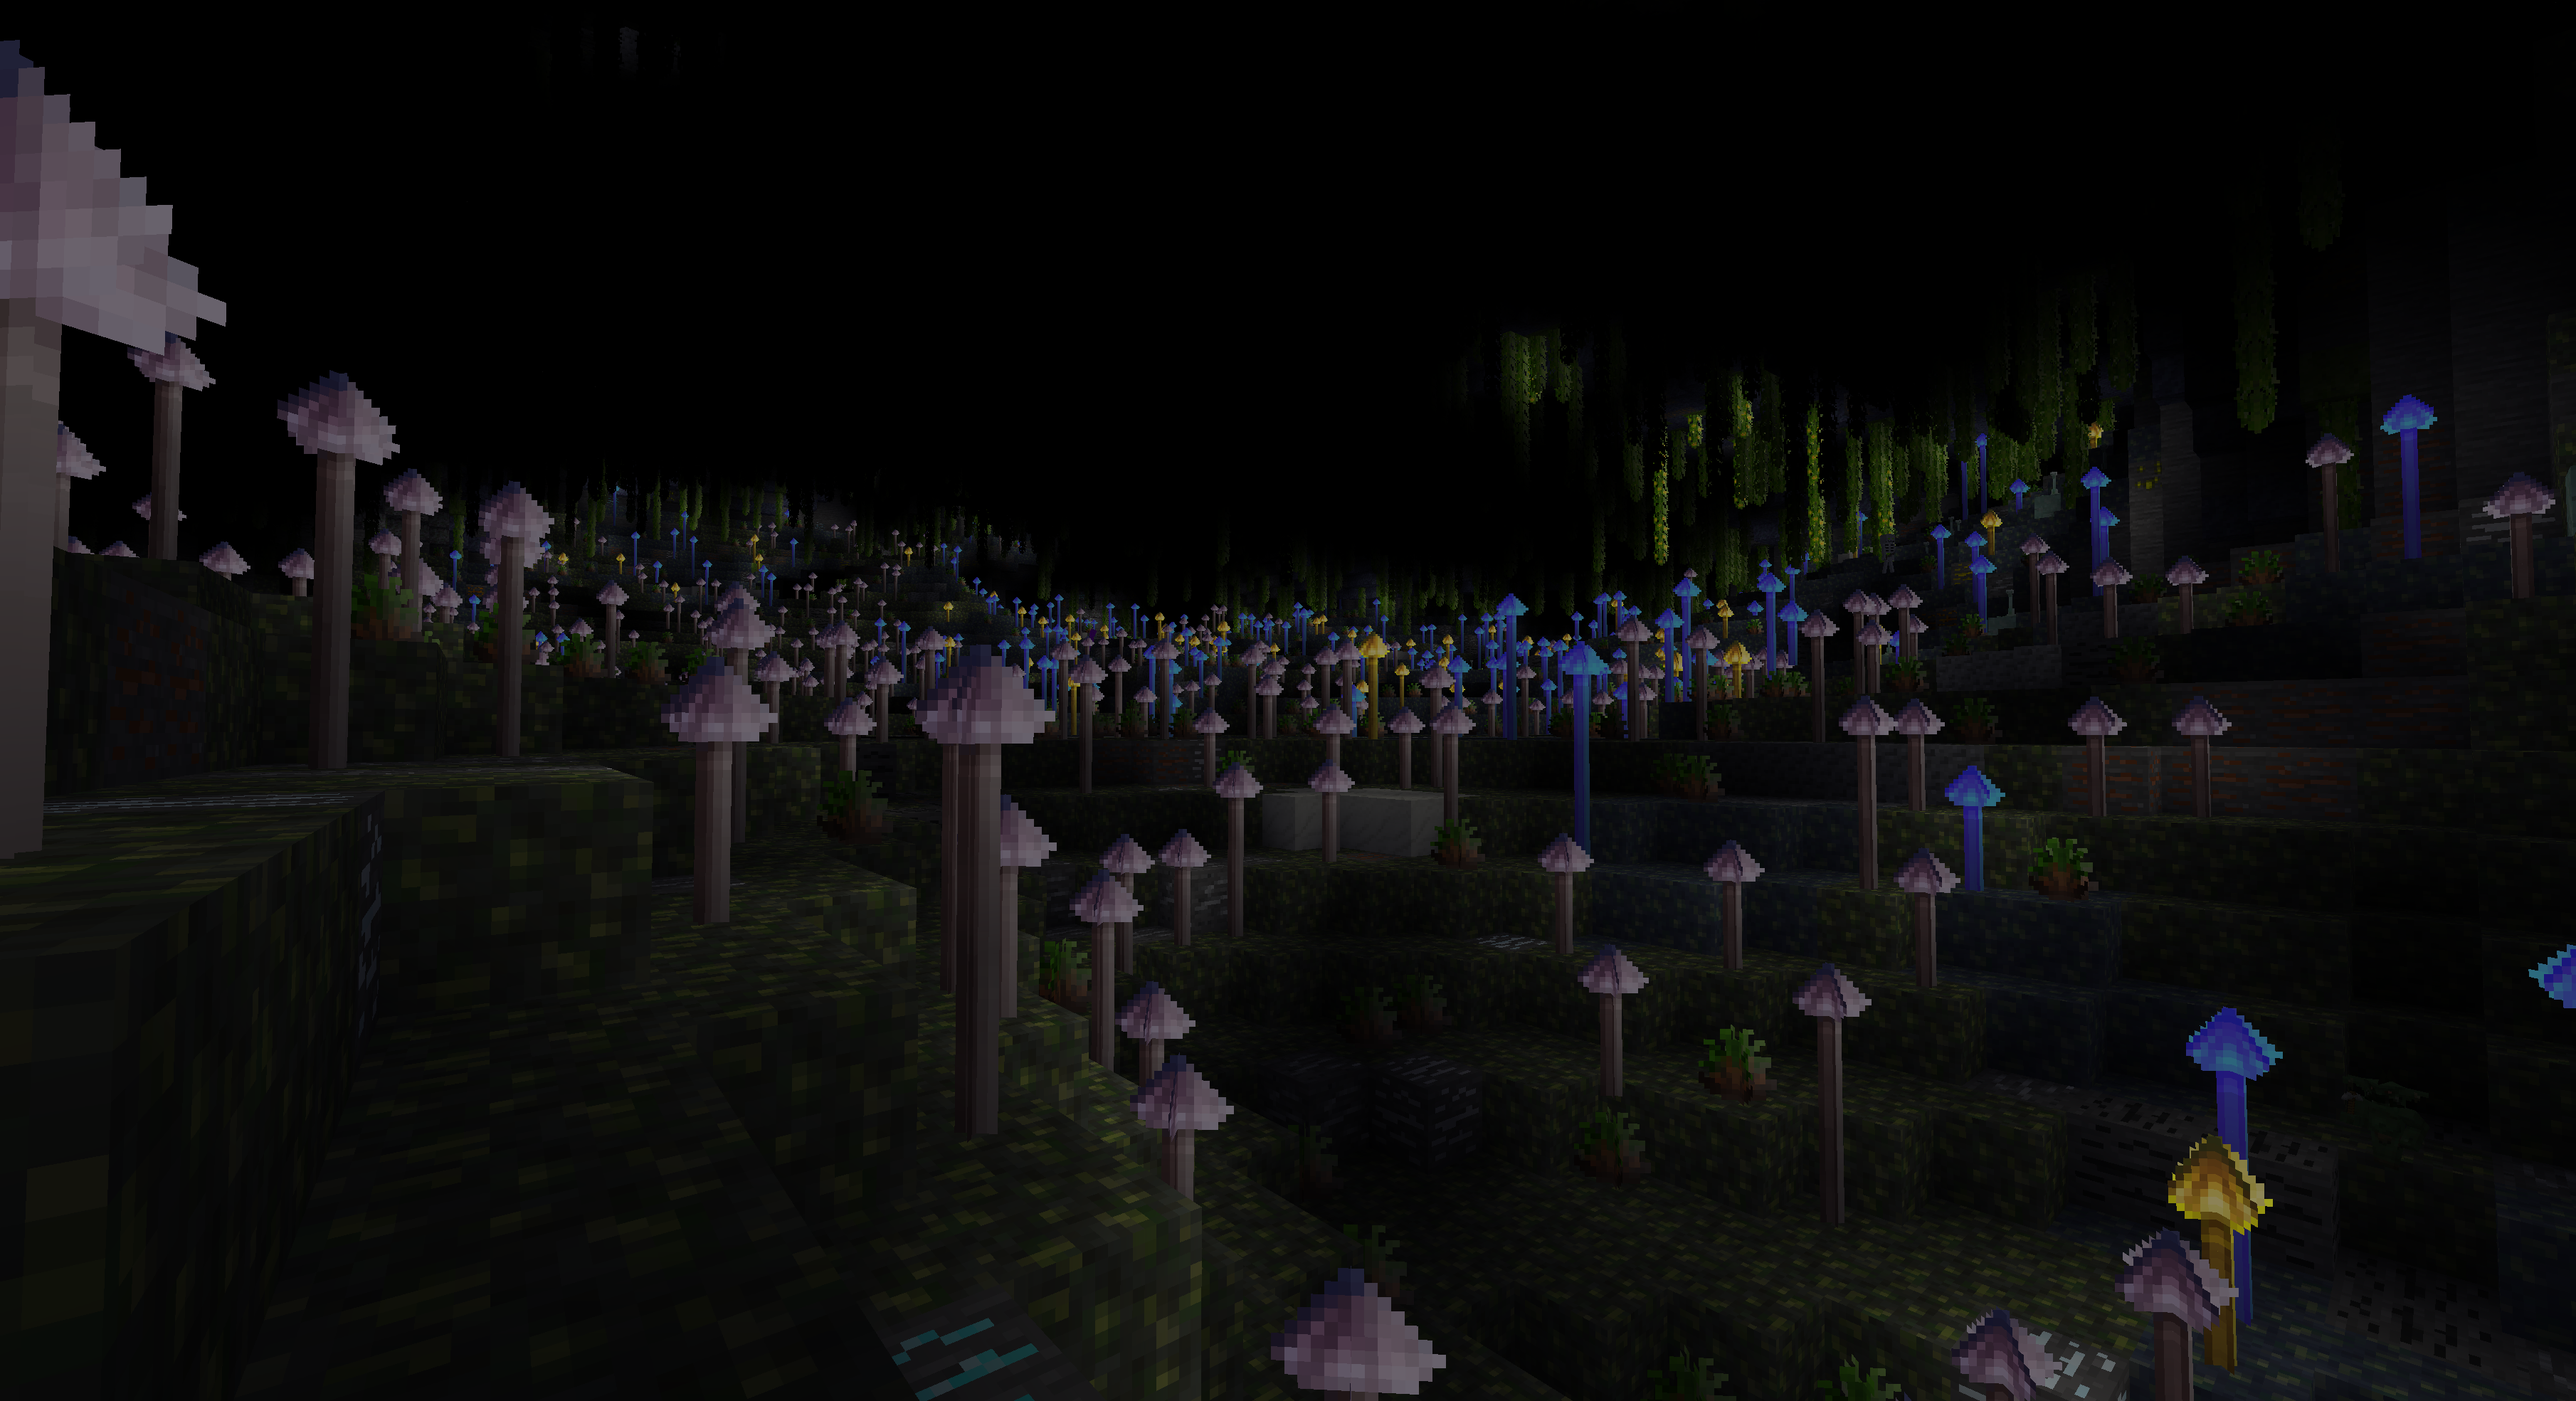
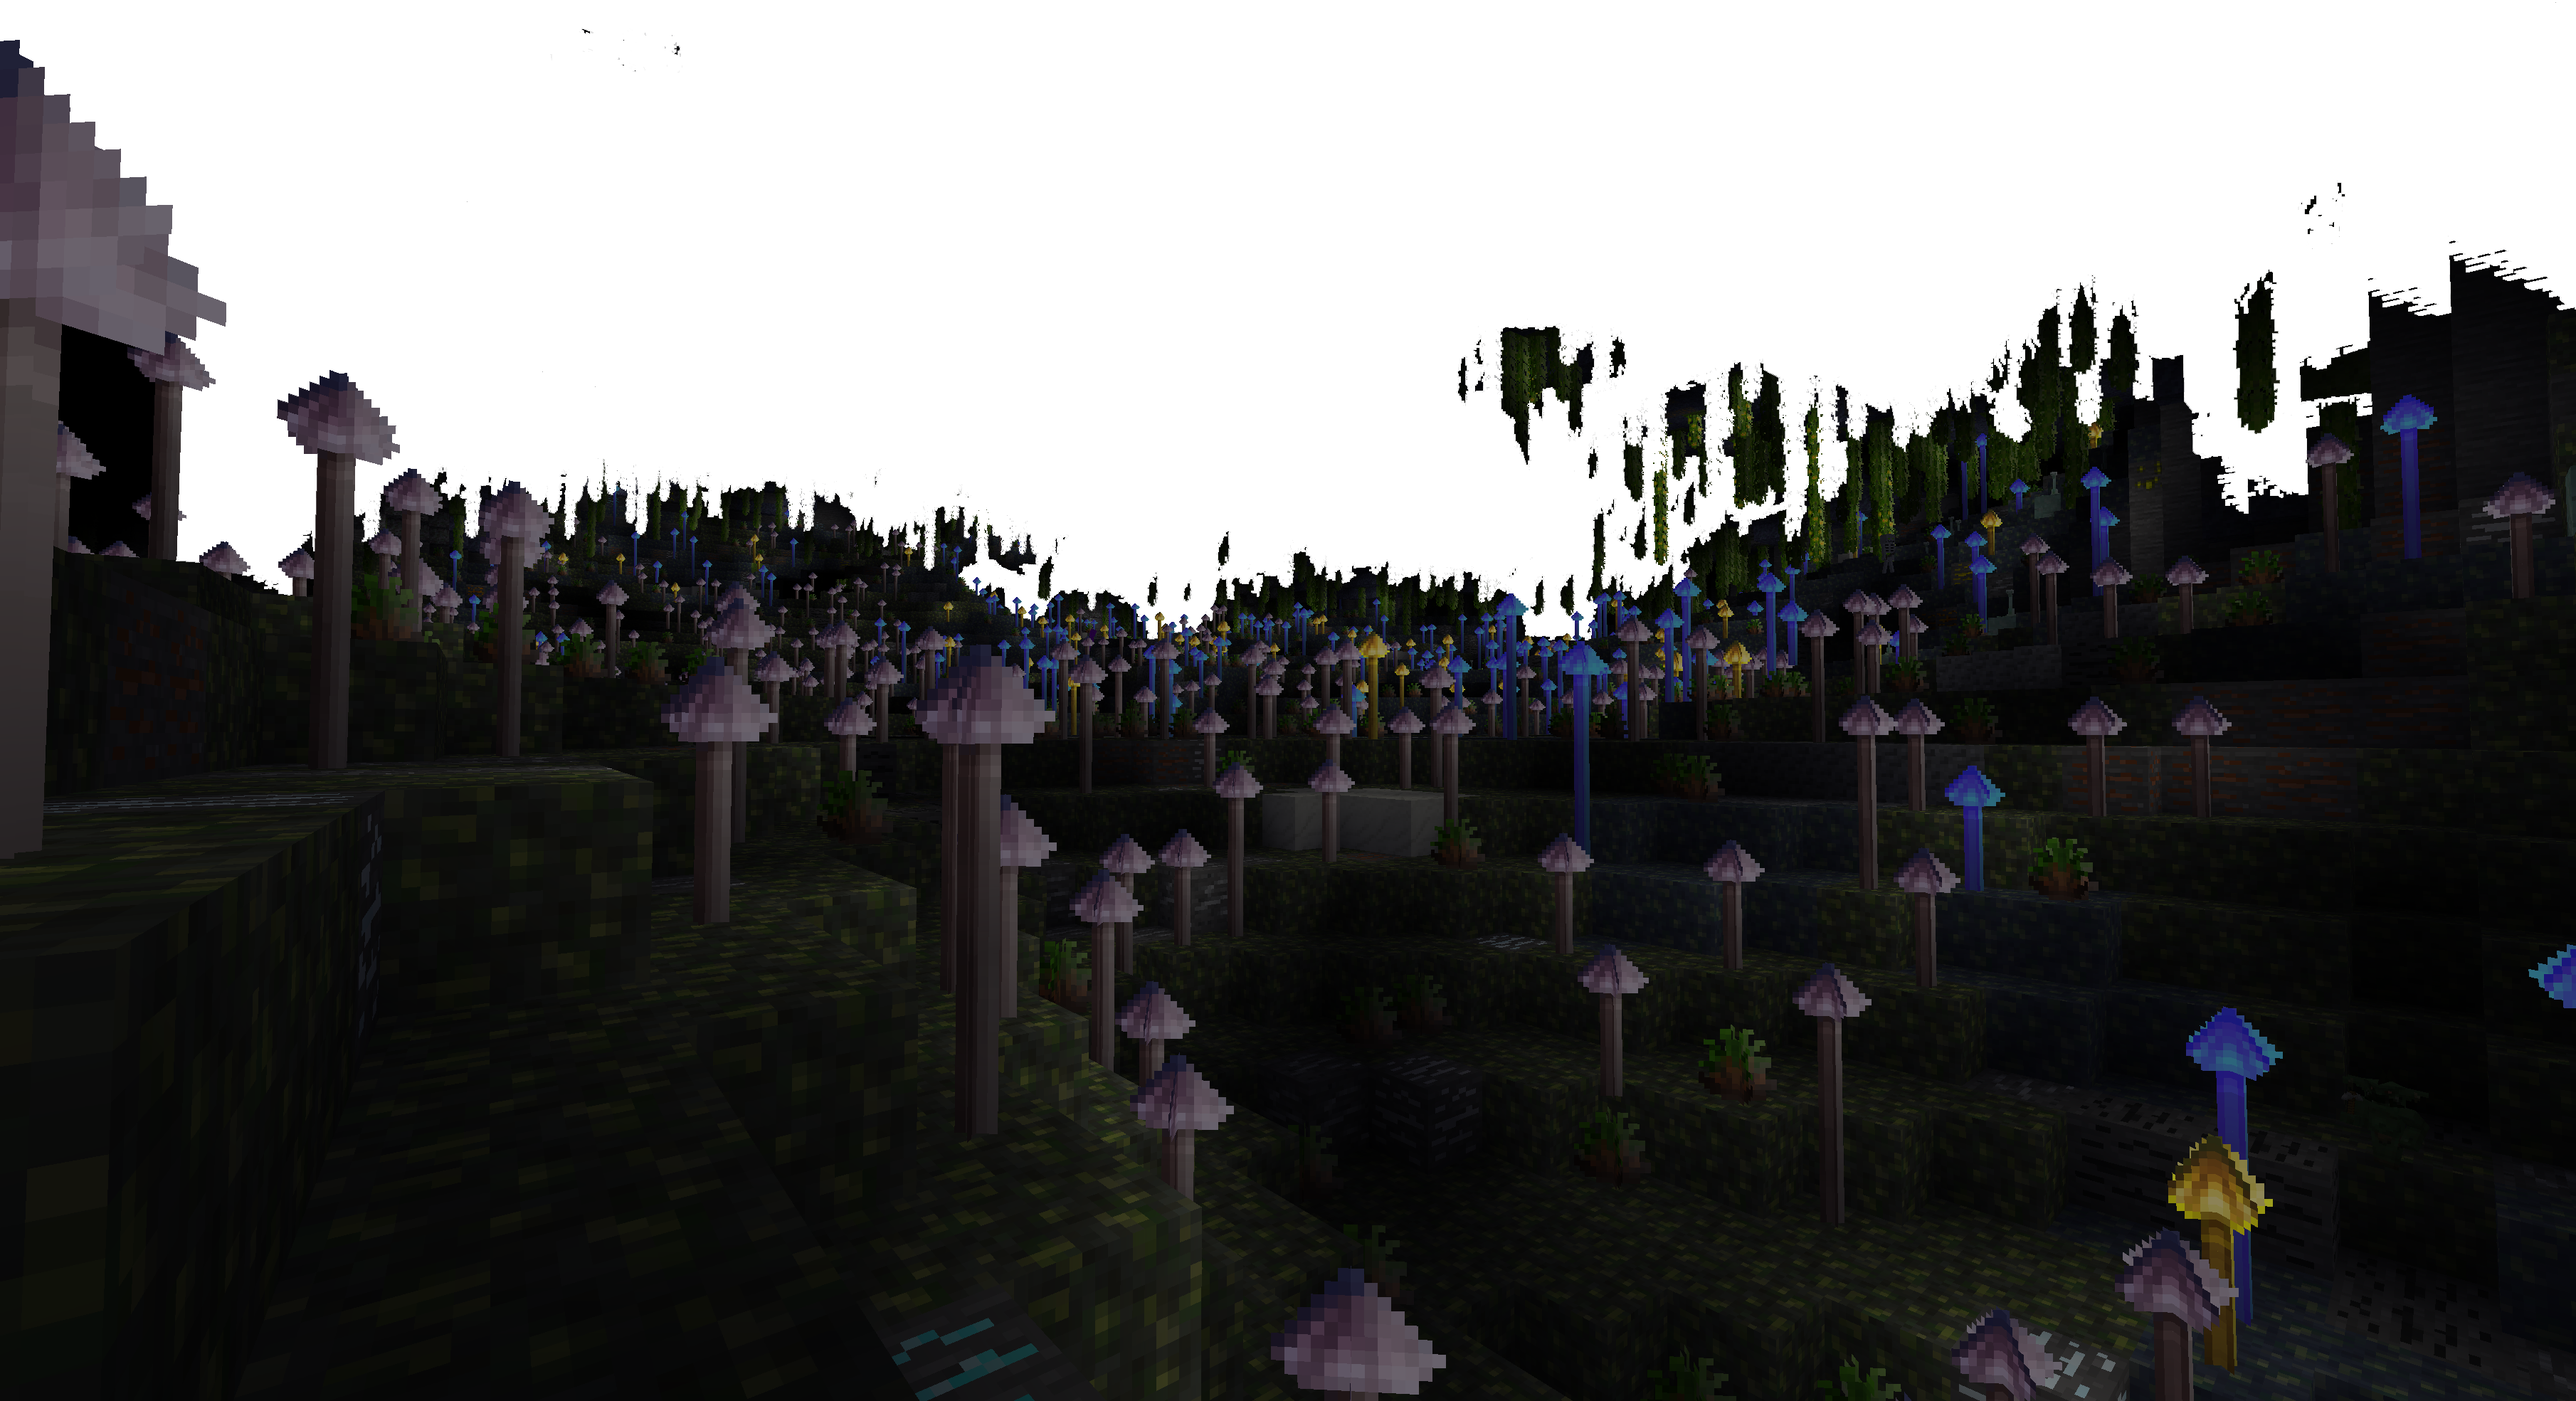
img

diff --git a/styles/loader.css b/styles/loader.css
@@ -333,7 +333,7 @@ img.vert-move-6 {
 	background-size: cover; */
 	/* transform: skewY(-5deg); */
 	margin-bottom: 1rem;
-	background: url(/images/BG-B.webp), black !important;
+	background: url(/images/BG-B.webp) !important;
 	background-position: bottom !important;
 	background-attachment: fixed !important;
 	background-size: cover !important;
